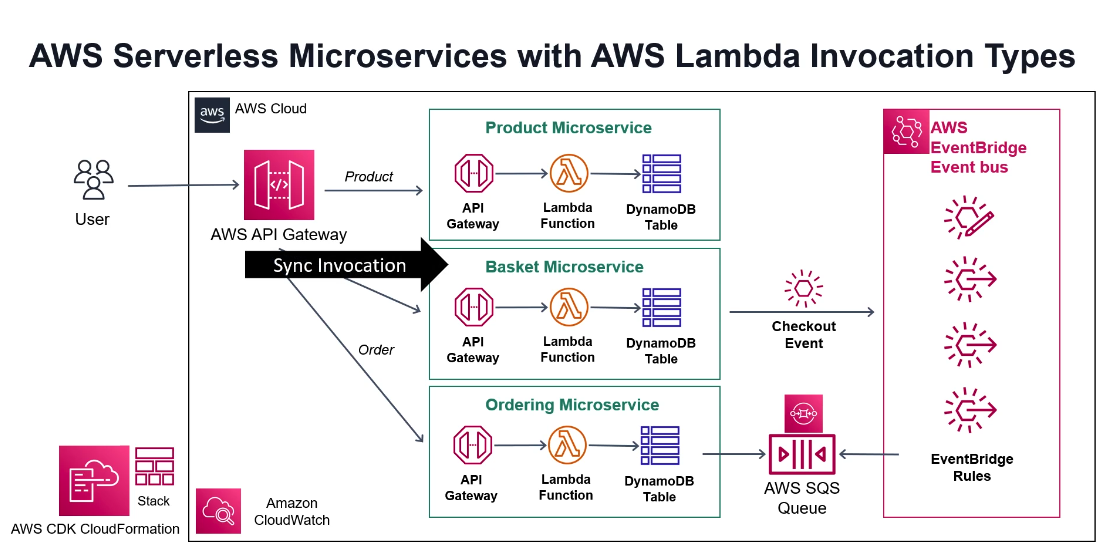
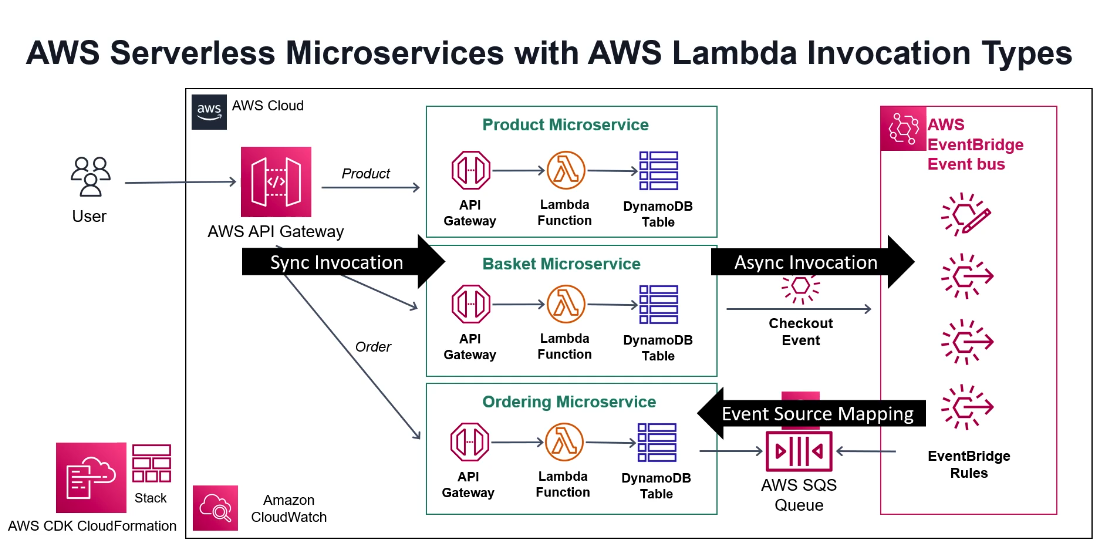
Adding event bus

diff --git a/lib/database.ts b/lib/database.ts
@@ -6,15 +6,24 @@ import { ITable } from "aws-cdk-lib/aws-dynamodb";
 export class Database extends Construct {
   public readonly productTable: ITable;
   public readonly basketTable: ITable;
+  public readonly orderTable: ITable;
 
   constructor(scope: Construct, id: string) {
     super(scope, id);
 
     this.productTable = this.createProductTable();
     this.basketTable = this.createBasketTable();
+    this.orderTable = this.createOrderTable();
   }
 
   // create product table
+  // {
+  //   "name": "iphoneX",
+  //   "description": "this is the first product release",
+  //   "imageFile": "product-1.png",
+  //   "category": "Phone",
+  //   "price": 950.4
+  // }
   private createProductTable(): ITable {
     // create product table
     const productTable = new dynamodb.Table(this, 'product', {
@@ -31,6 +40,25 @@ export class Database extends Construct {
   }
 
   // create basket table
+  // {
+  //   "userName": "k.i",
+  //   "items": [
+  //       {
+  //           "quality": 2,
+  //           "color": "Red",
+  //           "price": 950,
+  //           "productId": "ABC-123",
+  //           "productName": "iPhoneX"
+  //       },
+  //       {
+  //           "quality": 1,
+  //           "color": "Green",
+  //           "price": 650,
+  //           "productId": "ABC-124",
+  //           "productName": "iPhoneY"
+  //       }
+  //   ]
+  // }
   private createBasketTable(): ITable {
     // create basket table
     const basketTable = new dynamodb.Table(this, 'basket', {
@@ -44,5 +72,35 @@ export class Database extends Construct {
     });
 
     return basketTable;
+  }
+
+  // create order table
+  // {
+  //   "userName": "k.i",
+  //   "totalPrice": 0,
+  //   "firstName": "Kingsley",
+  //   "lastName": "Ijomah",
+  //   "email": "king@test.com",
+  //   "address": "Puerto Rico",
+  //   "cardInfo": "5554442211",
+  //   "paymentMethod": 1
+  //   "orderDate": 
+  // }
+  private createOrderTable(): ITable {
+    const orderTable = new dynamodb.Table(this, 'order', {
+      partitionKey: {
+        name: 'userName',
+        type: dynamodb.AttributeType.STRING,
+      },
+      sortKey: {
+        name: 'orderDate',
+        type: dynamodb.AttributeType.STRING,
+      },
+      tableName: 'order',
+      removalPolicy: cdk.RemovalPolicy.DESTROY,
+      billingMode: dynamodb.BillingMode.PAY_PER_REQUEST,
+    });
+
+    return orderTable;
   }
 }

diff --git a/lib/lambda.ts b/lib/lambda.ts
@@ -7,12 +7,14 @@ import { ITable } from 'aws-cdk-lib/aws-dynamodb';
 export interface LambdaProps {
   productTable: ITable;
   basketTable: ITable;
+  orderTable: ITable;
 }
 
 // create a construct for the lambda
 export class Lambda extends Construct {
   public readonly productFunction: NodejsFunction;
   public readonly basketFunction: NodejsFunction;
+  public readonly orderFunction: NodejsFunction;
 
   constructor(scope: Construct, id: string, props: LambdaProps) {
     super(scope, id);
@@ -20,6 +22,7 @@ export class Lambda extends Construct {
     // create product nodejsfunction
     this.productFunction = this.createProductFunction(props.productTable);
     this.basketFunction = this.createBasketFunction(props.basketTable);
+    this.orderFunction = this.createOrderFunction(props.orderTable);
   }
 
   // create product nodejsfunction
@@ -50,6 +53,9 @@ export class Lambda extends Construct {
       environment: {
         DATABASE_TABLE_NAME: basketTable.tableName,
         PRIMARY_KEY: 'userName',
+        EVENT_SOURCE: 'com.chn.basket.checkoutbasket', // must match event bus source
+        EVENT_DETAIL_TYPE: 'CheckoutBasket', // must match event bus detailType
+        EVENT_BUS_NAME: 'ChnEventBus', // must match event bus name
       },
       bundling: {
         externalModules: ['aws-sdk'],
@@ -60,5 +66,25 @@ export class Lambda extends Construct {
     basketTable.grantReadWriteData(basketFunction);
 
     return basketFunction;
+  }
+
+  // create order nodejsfunction
+  private createOrderFunction(orderTable: ITable): NodejsFunction {
+    const orderFunction = new NodejsFunction(this, 'orderFunction', {
+      entry: 'src/ordering/index.js',
+      handler: 'handler',
+      environment: {
+        DATABASE_TABLE_NAME: orderTable.tableName,
+        PRIMARY_KEY: 'userName',
+      },
+      bundling: {
+        externalModules: ['aws-sdk'],
+      },
+      runtime: Runtime.NODEJS_14_X,
+    });
+    // grant readwrite permission
+    orderTable.grantReadWriteData(orderFunction);
+
+    return orderFunction;
   }
 }

diff --git a/lib/eventbus.ts b/lib/eventbus.ts
@@ -1,0 +1,38 @@
+import { EventBus, Rule } from "aws-cdk-lib/aws-events";
+import { IFunction } from "aws-cdk-lib/aws-lambda";
+import { Construct } from "constructs";
+import { LambdaFunction } from 'aws-cdk-lib/aws-events-targets';
+
+interface ChnEventBusProps {
+  publisherFunction: IFunction;
+  targetFunction: IFunction;
+}
+
+// create a construct for the event bus
+export class ChnEventBus extends Construct {
+
+  constructor(scope: Construct, id: string, props: ChnEventBusProps) {
+    super(scope, id);
+    
+    // event bus
+    const eventBus = new EventBus(this, 'EventBus', {
+      eventBusName: 'ChnEventBus',
+    });
+
+    // event bus checkoutBasket rule
+    const checkoutBasketRule = new Rule(this, 'CheckoutBasketRule', {
+      eventBus: eventBus,
+      eventPattern: {
+        source: ['com.chn.basket.checkoutbasket'], // can be any string
+        detailType: ['CheckoutBasket'], // can be any string
+      },
+      ruleName: 'CheckoutBasketRule', // can be any string
+    });
+
+    // add target to checkoutBasket rule
+    checkoutBasketRule.addTarget(new LambdaFunction(props.targetFunction));
+
+    // grant permission to publish to event bus
+    eventBus.grantPutEventsTo(props.publisherFunction);
+  }
+}

diff --git a/lib/api-gateway.ts b/lib/api-gateway.ts
@@ -7,6 +7,7 @@ import { Construct } from "constructs";
 export interface ApiGatewayProps {
   productFunction: IFunction;
   basketFunction: IFunction;
+  orderFunction: IFunction;
 }
 
 export class ApiGateway extends Construct {
@@ -15,6 +16,7 @@ export class ApiGateway extends Construct {
 
     this.createProductApi(props.productFunction);
     this.createBasketApi(props.basketFunction);
+    this.createOrderApi(props.orderFunction);
   }
 
   private createProductApi(productFunction: IFunction) {
@@ -59,5 +61,23 @@ export class ApiGateway extends Construct {
     const checkout = basket.addResource('checkout');
     checkout.addMethod('POST'); // POST /basket/checkout
   }
+
+  private createOrderApi(orderFunction: IFunction) {
+    // create LamdaRestApi with orderFunction
+    const apgw = new LambdaRestApi(this, 'orderApi', {
+      restApiName: 'Order Service',
+      handler: orderFunction,
+      proxy: false
+    });
+
+    // create order resource
+    const order = apgw.root.addResource('order');
+    order.addMethod('GET'); // GET /order
+
+    // create order/{userName} resource
+    const orderWithId = order.addResource('{userName}');
+    orderWithId.addMethod('GET'); // GET /order/{userName}
+  }
+
 }
 

diff --git a/lib/cdk-microservices-stack.ts b/lib/cdk-microservices-stack.ts
@@ -3,6 +3,8 @@ import { Construct } from 'constructs';
 import { Lambda } from './lambda';
 import { Database } from './database';
 import { ApiGateway } from './api-gateway';
+import { ChnEventBus } from './eventbus';
+
 
 export class CdkMicroservicesStack extends cdk.Stack {
   constructor(scope: Construct, id: string, props?: cdk.StackProps) {
@@ -15,12 +17,21 @@ export class CdkMicroservicesStack extends cdk.Stack {
     const lambda = new Lambda(this, 'Microservice', {
       productTable: database.productTable,
       basketTable: database.basketTable,
+      orderTable: database.orderTable,
     });
 
     // create api gateway
     const apigateway = new ApiGateway(this, 'ApiGateway', {
       productFunction: lambda.productFunction,
       basketFunction: lambda.basketFunction,
+      orderFunction: lambda.orderFunction,
     });
+
+    // create event bus
+    const eventBus = new ChnEventBus(this, 'EventBus', {
+      publisherFunction: lambda.basketFunction,
+      targetFunction: lambda.orderFunction,
+    });
+
   }
 }

diff --git a/README.md b/README.md
@@ -2,7 +2,7 @@
 
 ![alt text](assets/img/aws-architecture.png)
 
-This is a blank project for CDK development with TypeScript.
+![alt text](assets/img/aws-event-bridge.png)
 
 The `cdk.json` file tells the CDK Toolkit how to execute your app.
 
